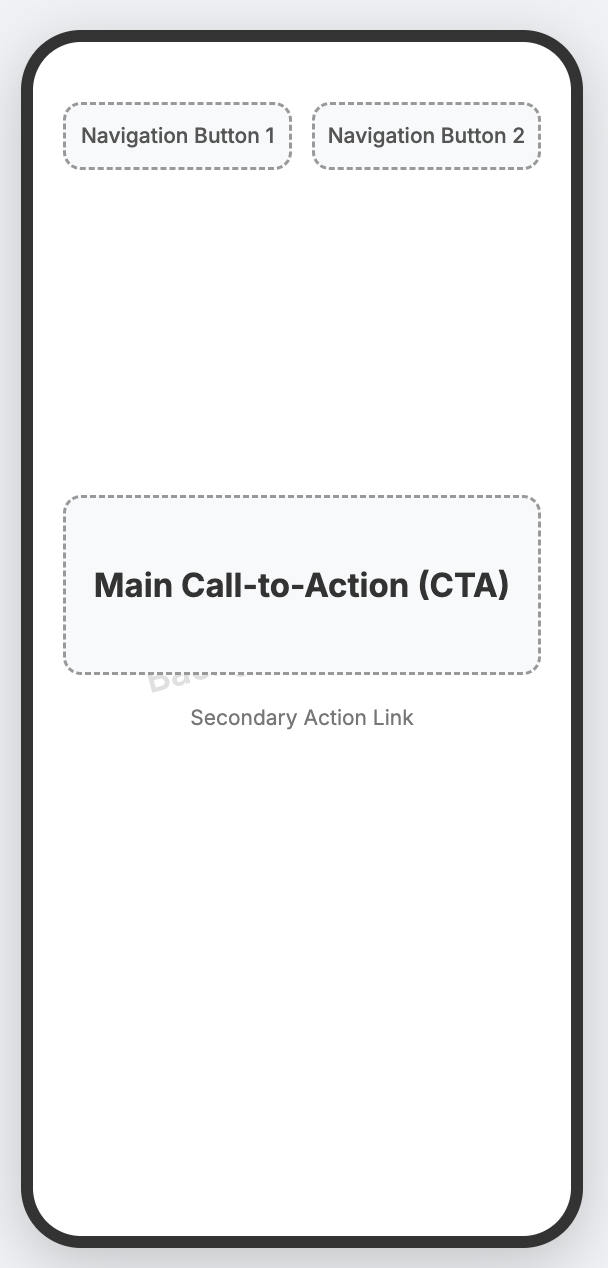
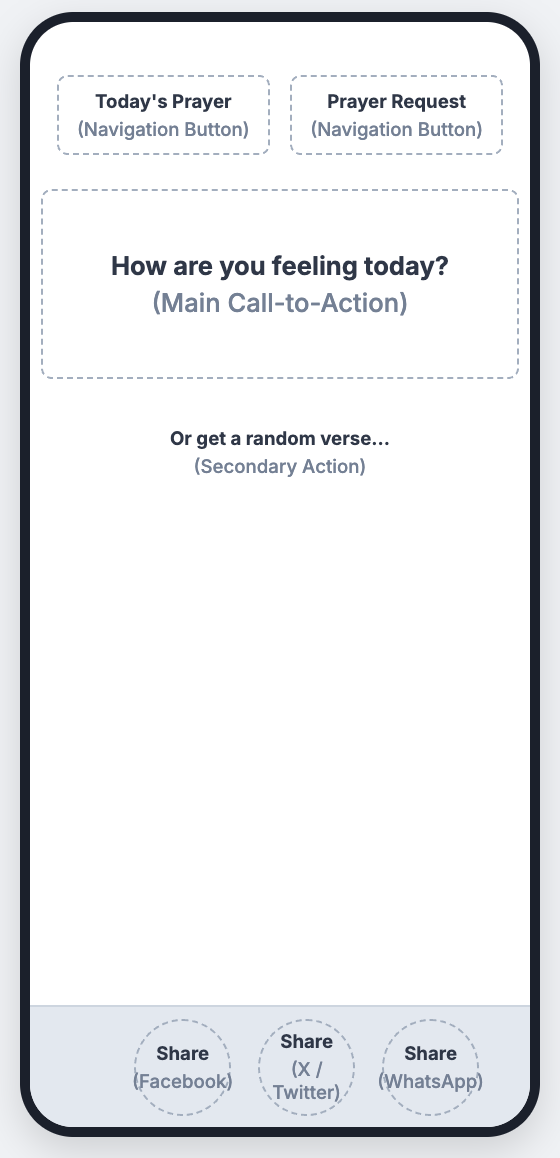
docs: Update mobile feelings wireframe with share footer- Adds the persistent share footer description to the mobile feelings   selection screen. - This aligns the documentation with the final UI, which includes the   global share component.

diff --git a/style.css b/style.css
@@ -467,7 +467,6 @@ main, .main-container {
     .footer {
       position: fixed;
       padding: 30px;
-      opacity: 0.8;
     }
 
     .share-buttons button {

diff --git a/README.md b/README.md
@@ -151,7 +151,7 @@ This feature is designed to foster a sense of community and support in a seamles
 For mobile devices, the design was adapted to a single-column layout to ensure a clean, focused, and user-friendly experience on smaller screens. The priority is to maintain the same serene atmosphere while making all interactions easily accessible with one hand.
 
 #### Step 5: The Home Page 
-The mobile home page retains the core functionality of the desktop version but stacks the elements vertically for a natural and intuitive flow.
+On mobile devices, after the user interacts with the main CTA, the interface transitions to display the feelings selection screen. The layout is adapted into a touch-friendly, two-column grid to ensure all options are easily scannable and selectable with one hand.
 
 ![Wireframe - Home Page Mobile](assets/images/documentation/wireframes-mobile/wireframe4.png)
 
@@ -162,6 +162,8 @@ Key adaptations for the mobile layout include:
 2. Prominent CTA: The main call-to-action remains the central focus, enlarged to be easily tappable and immediately draw the user's attention.
 
 3. Vertical Hierarchy: All elements are arranged in a clear vertical hierarchy, guiding the user's eye downwards from the navigation options to the primary and secondary actions, ensuring a seamless experience.
+
+4 .Persistent Share Footer: The fixed footer with the share buttons for Facebook, X (Twitter), and WhatsApp remains visible at the bottom of the screen. This ensures that the option to share the site is always available, even as the user navigates through the main flow.
 
 This approach ensures that the application is just as powerful and easy to use on a mobile device as it is on a desktop.
 
